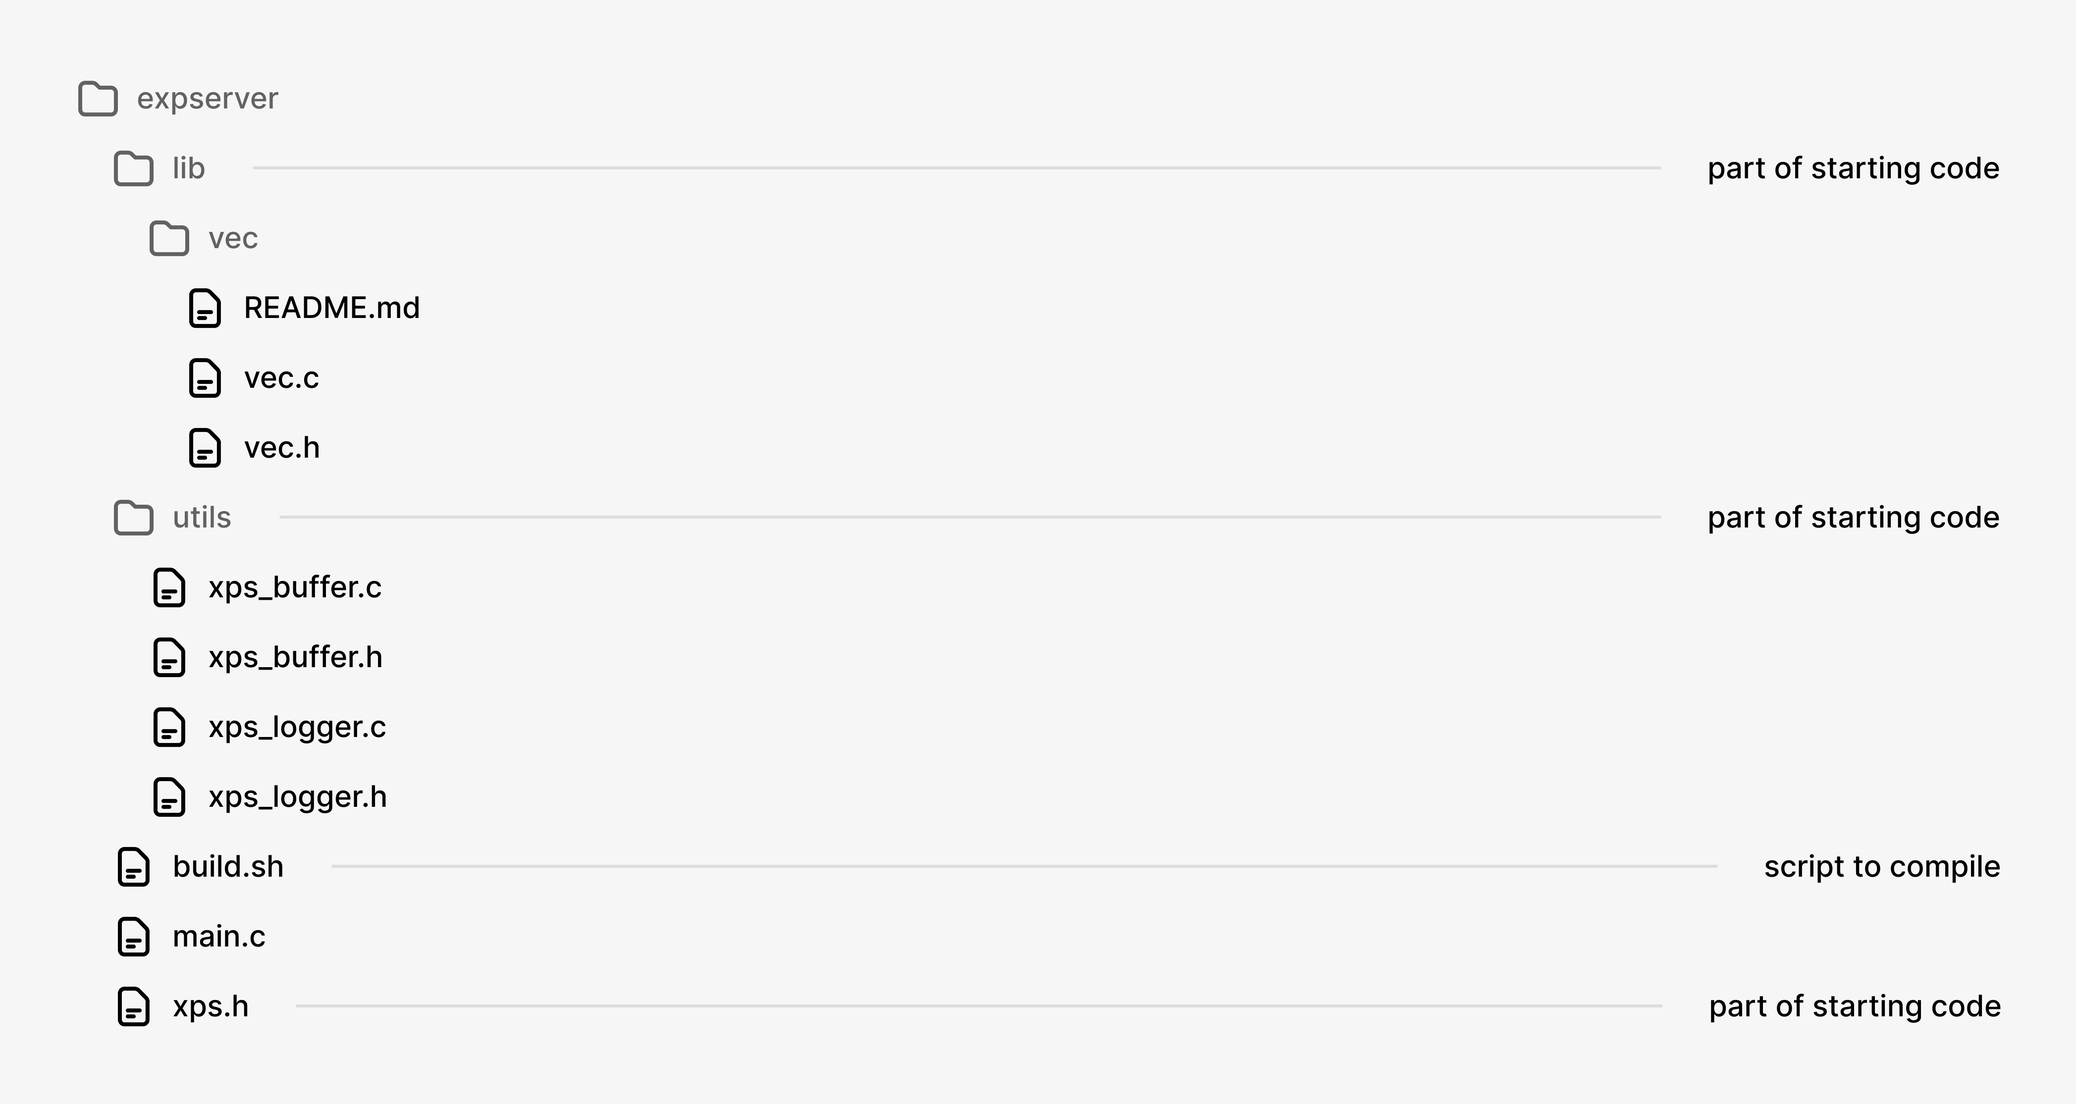
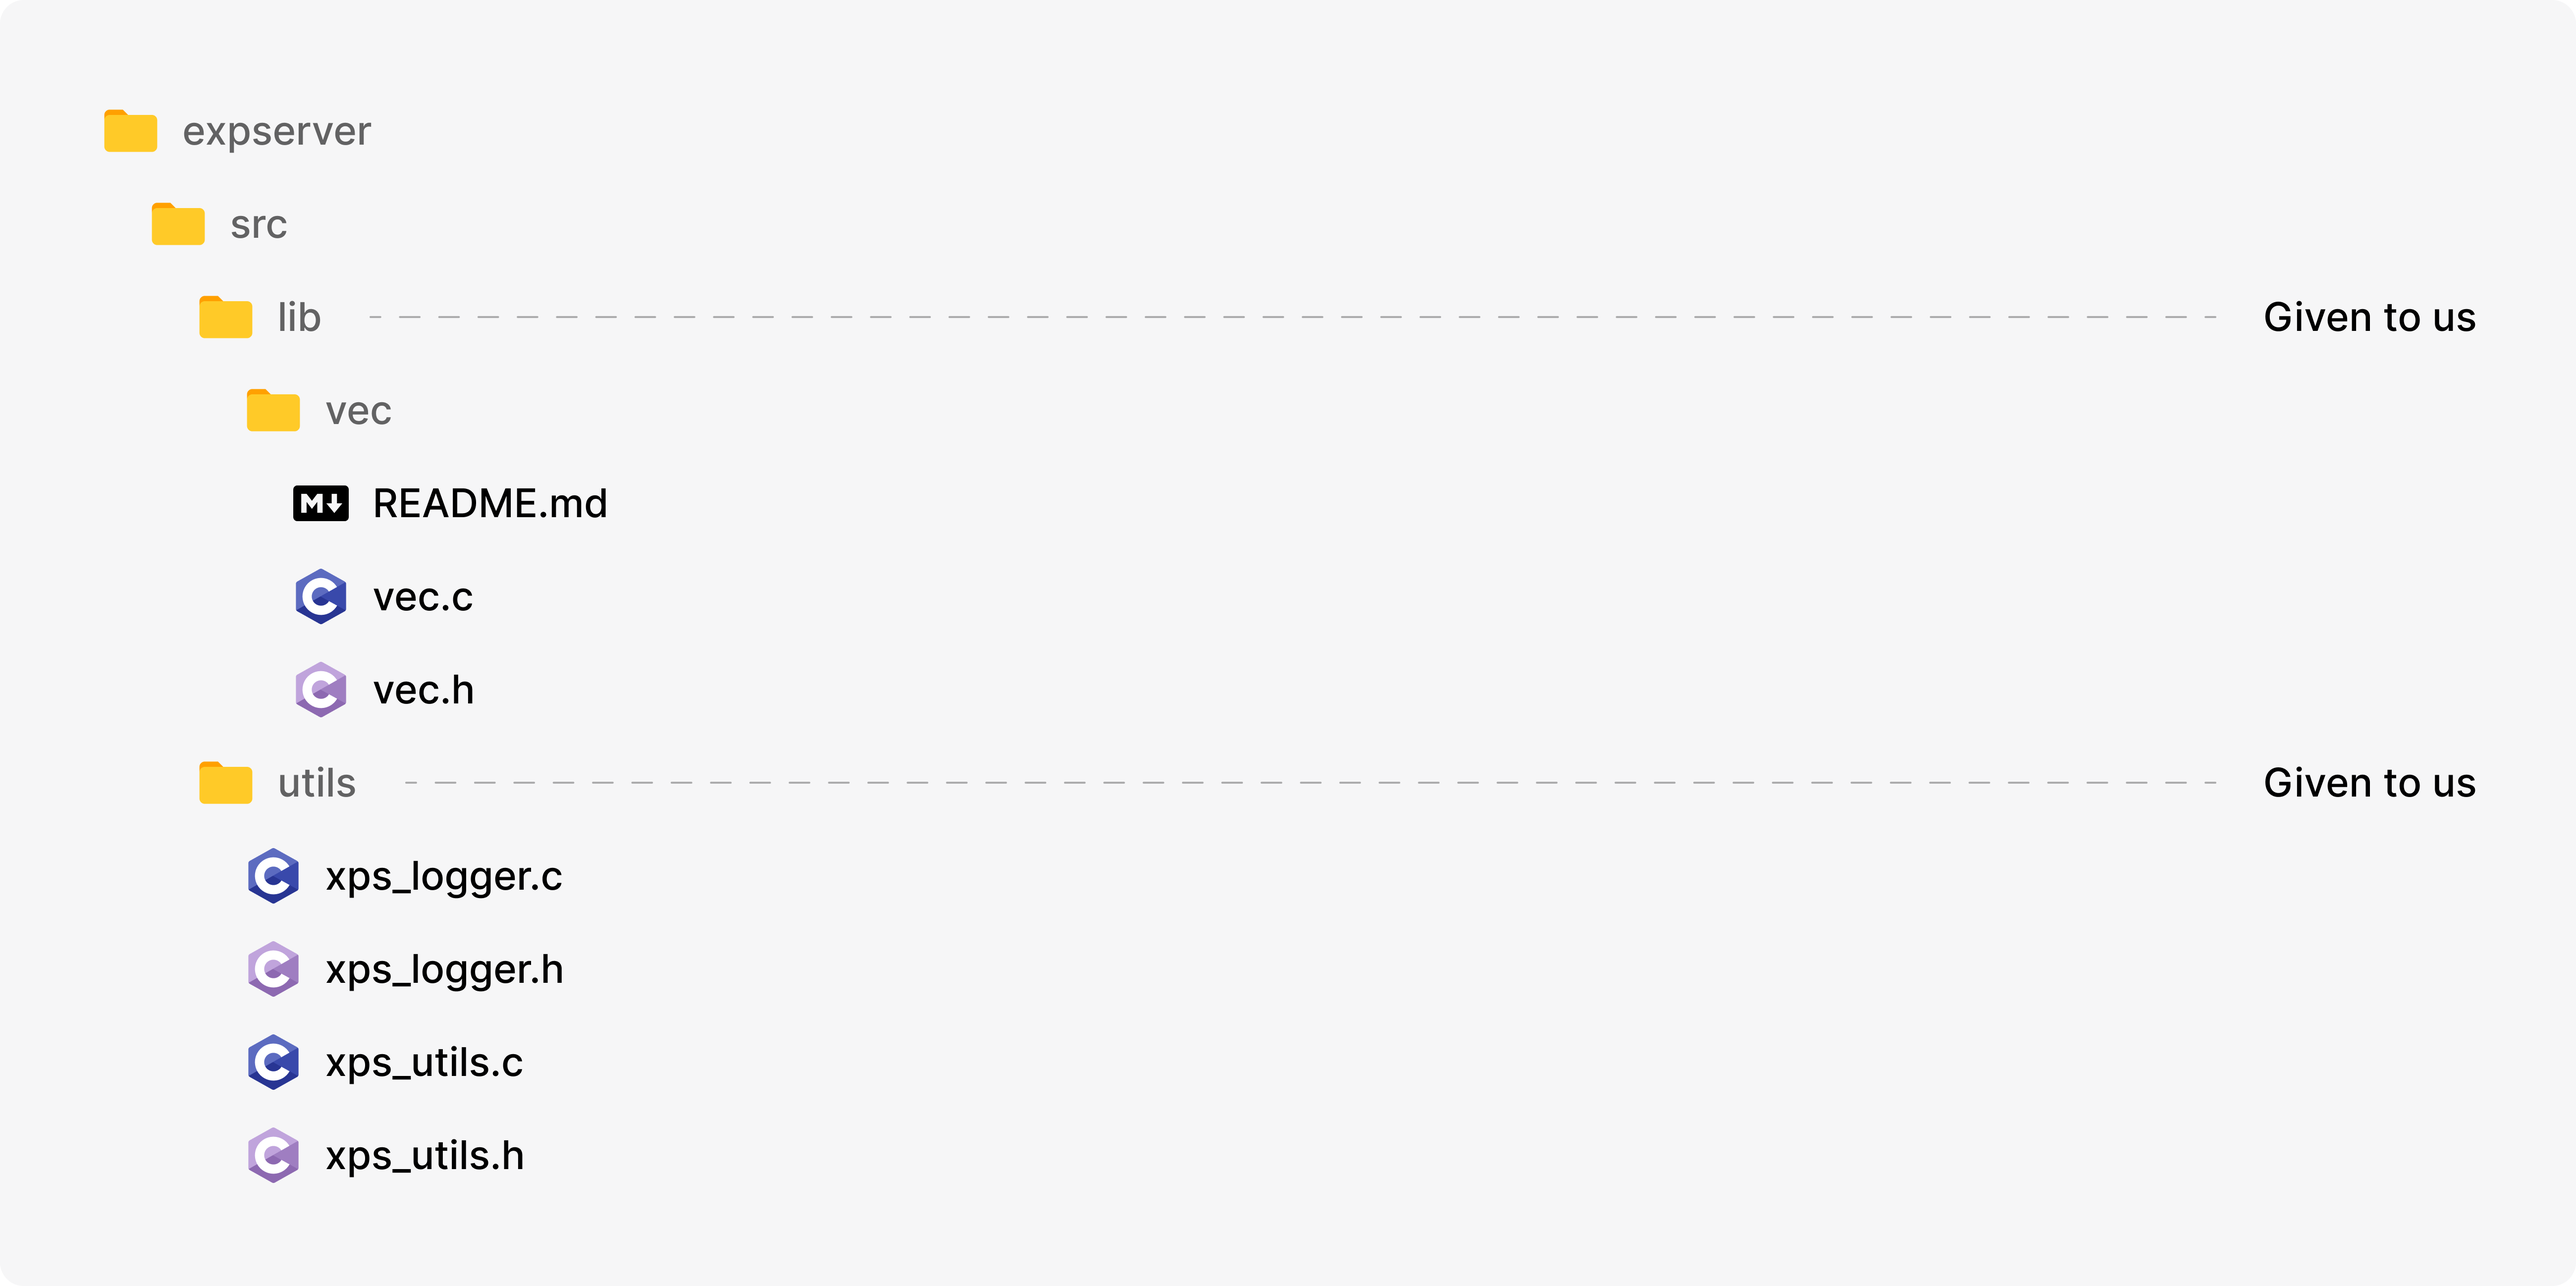
add coding conventions

diff --git a/docs/guides/resources/coding-conventions.md b/docs/guides/resources/coding-conventions.md
@@ -1,0 +1,123 @@
+# Coding Conventions
+
+In order to maintain consistency while developing eXpServer, we will be following a set of [coding conventions](https://en.wikipedia.org/wiki/Coding_conventions). Even though it is possible to develop eXpServer without following these exact conventions, the roadmap has been laid out with the expectation that these conventions will be followed.
+
+## Modules
+
+eXpServer is developed in the form of modules. A module will comprise of a `.h` and `.c` file, eg: `xps_listener.h` and `xps_listener.c`. The header files will contain struct definitions, [function prototypes](https://en.wikipedia.org/wiki/Function_prototype) and other declarations. The C files will contain definitions for the functions.
+
+### **Create and Destroy Functions**
+
+A typical pattern that we will be seeing in modules is the _create_ and _destroy_ functions. For example, the `xps_listener` module has `xps_listener_t *xps_listener_create(...)` and `void xps_listener_destory(xps_listener_t *listener)` functions. These functions are responsible for the following:
+
+- The _create_ functions will allocate memory and initialize the struct for the respective modules, `xps_listener_t` in this example. On success it will return a pointer to the instance and on error it will return `NULL` . Hence the calling function can detect an error by checking if the returned value is `NULL` or not.
+- The _destroy_ functions will accept a pointer to an instance of the module struct, `xps_listener_t` in this case, to release memory and properly de-initialize any associated values. Since the destroy functions are always expected to succeed, it will not return any errors.
+
+### **Other Module Functions**
+
+Apart from the create and destroy functions, there could be other functions associated with the module, that can be called from anywhere in the code. Thus they are also declared in the modules’ header file, and its definition in the C file. The function names are prefixed with `xps_`.
+
+### Helper Functions
+
+Additionally, helper functions can be defined and used within the modules. They will be declared at the top of the C file and not in the header file. The function name should be prefixed with the module name without `xps_`, for eg: `listener_connection_handler()`. The function name starts with the module name `xps_istener` without `xps_` as it will be used within the `xps_listener.c` file only.
+
+## Memory Management
+
+As a web server is a software that is expected to run for long intervals of time without shutting down, [memory leaks](https://en.wikipedia.org/wiki/Memory_leak) in the code can lead to huge consumption of system resources which can lead to the OS killing the process. Hence, if memory is allocated, it should be de-allocated after its use.
+
+### Modules
+
+When writing a _create_ function for a module which allocates memory, an accompanying _destroy_ function should be written which will free the memory.
+
+### Strings
+
+- In case of functions that accept strings (character arrays) as parameters, if the function does not modify the string it should be passed as `const char *`.
+  - eg: `int count_a(const char *str)`. Here the function returns the no. of letter ‘a’ in the string `str`. Since it won’t modify the string `str` it is passed as `const char *`.
+- If a function returns a string that should not be modified, then its should be returned as a `const char *`.
+  - eg: `const char *find_a(const char *str)`. Here the function finds the first occurrence of letter ‘a’ in the string `str`. Since it is a pointer to a byte in the string that should not be modified, it is returned as a `const char *`.
+- If a function returns `char *`, that signifies the function has internally allocated memory using `malloc()`. It is the responsibility of the calling function to free that memory.
+  - eg: `char * str_dup(const char *str)`. Here the function takes in a string and duplicates it. Internally `str_dup()` will allocate memory and copy over the contents from `str` and return a `char *` pointer to the newly allocated string.
+
+> ::: info NOTE
+> Memory leaks are hard to detect. Small leaks will only make an observable impact when the program is run for a long time. Hence the use of third party tools like [Valgrind](https://valgrind.org/) will be helpful in debugging memory issues in our code.
+> :::
+
+## Error Handling
+
+Unlike more modern languages, error handling is not a built in feature of the C programming language. Hence, there are a set of conventions followed in-order to indicate a function call has resulted in an error. Let us see what they are.
+
+### System Calls
+
+System calls such as `socket()` , `listen()` etc. which are part of [libc](https://en.wikipedia.org/wiki/C_standard_library) usually return `-1` on error and sets the [errno](https://en.wikipedia.org/wiki/Errno.h). We can use the `perror()` function to print the message associated with the last set _errno_. To see the exact return values of function look up their [man pages](https://man7.org/).
+
+### Pointer Return
+
+In eXpServer, if a function has a pointer return type it should return a valid pointer on success and `NULL` on error. eg: `xps_listener_t *xps_listener_create()`.
+
+### Error Code Return
+
+If a function is intended to perform a task that could fail, it should return an integer type with a valid error code. Valid error codes like `OK`, `E_FAIL`, `E_NOTFOUND`, `E_AGAIN`, etc., are defined in the `xps.h` file, seen in the first stage of Phase 1. For example, in the function signature `int xps_loop_attach(...)`, if the call is successful, it will return `OK`; otherwise, it will return `E_FAIL`.
+
+### Pointer Return with Error Code
+
+When a function needs to return a pointer to an instance and report an error code, it's not possible in C to return more than one value directly. In such cases, the return type of the function will be a pointer, and a reference to an integer, `int *error`, is passed to the function by the calling function. On error, NULL is returned, and the error integer is set to a valid error code.
+
+For example: `xps_file_t xps_file_create(..., int *error)`. On successful creation of the file instance, a valid pointer will be returned, and `*error` will be set to `OK`. In case of an error, `NULL` is returned, and `*error` is set to a valid error code such as `E_NOTFOUND`.
+
+### Validating Function Params
+
+When writing functions, start by validating the params first. You can use the [`assert()` macro](https://www.gnu.org/software/gawk/manual/html_node/Assert-Function.html) for this. Assert will stop the code execution and print the error if the expression is false. For example
+
+```c
+// Check if str has n 'a' in it
+int has_n_a(const char *str, int n) {
+	assert(str != NULL);
+	assert(n >= 0);
+
+	...
+}
+```
+
+### Early Return Pattern
+
+The early return pattern for errors is a programming practice where a function exits prematurely upon encountering an error condition, rather than continuing execution. This approach enhances code readability and performance by reducing nested conditionals and maintaining a clear flow of logic. When an error is detected, the function immediately returns by freeing up any allocated memory, closing any opened FDs, destroying and created instances etc. up till that point. For example
+
+```c
+// NOTE: This is an example and not the actual function definition
+xps_listener_t *xps_listner_create(...) {
+	// Validate params
+
+	int sock_fd = socket(...);
+	if(sock_fd == -1)
+		return NULL;
+
+	xps_listener_t *listener = malloc(...);
+	if(listener == NULL) {
+		close(sock_fd);
+		return NULL;
+	}
+
+	int error == bind(...);
+	if(error == -1) {
+		close(sock_fd);
+		free(listener);
+		return NULL;
+	}
+
+	...
+
+	return listener; // Success
+}
+```
+
+## Logging
+
+To help with debugging and understanding the order of function invocations, we will be logging messages throughout the code using the provided `xps_logger` utility. There are primarily 4 levels of logging, `LOG_INFO`, `LOG_WARNING`,`LOG_ERROR` and `LOG_DEBUG` .
+
+![Screenshot 2024-04-27 at 15.36.17.png](/assets/resources/logs.png)
+
+Read more about and get the source code for `xps_logger` [here](https://www.notion.so/xps_logger-9c8f4eb874ff4b0db31d2783197a7708?pvs=21).
+
+## Naming Convention
+
+[Snake case](https://en.wikipedia.org/wiki/Snake_case) convention is used to name all identifiers, i.e. small letters with underscores in place of spaces. For example `my_server`, `xps_buffer.c` etc. File names, function names and type names that are used across multiple files are prefixed with `xps_` , eg: `xps_buffer_create()` .

diff --git a/docs/roadmap/phase-1/index.md b/docs/roadmap/phase-1/index.md
@@ -14,8 +14,12 @@ Congratulations on completion of Phase 0! Let’s take a look at what we have do
 
 Phase 0 gave us an introduction to Linux socket programming and an understanding of how client-server communications take place. Using this knowledge, from Phase 1 onwards we will start to build the actual eXpServer.
 
-::: tip Pre-Requisite Reading
+::: tip PRE-REQUISITE READING
 Now is a good time to understand the capabilities and architecture of eXpServer. Read the following [Architecture](/guides/resources/architecture) document before proceeding further.
+:::
+
+::: tip PRE-REQUISITE READING
+Read the following document about the [Coding Conventions](/guides/resources/coding-conventions) we will be using to implement eXpServer
 :::
 
 There will be an apparent jump in the complexity of the code that we will be writing which is normal and expected. We will have to spend a bit more time than Phase 0 for this. Rest assured, this documentation will guide us throughout the process.
@@ -28,30 +32,8 @@ In order to maintain consistency, the documentation will be providing the expect
 
 ### Phase 1 Initial File Structure
 
-![filestructure.png](/assets/phase-1-overview/filestructure.png)
+![phase-1-overview-filestructure.png](/assets/phase-1-overview/filestructure.png)
 
-- We will be using a library called `vec` that provides dynamic array implementation. Read about and get the source code for `vec` [here](/guides/references/vec).
-- `xps_buffer` is a module used to create instances of data buffers. Read about and get the source code for `xps_buffer` [here](/guides/references/xps_buffer).
-- `xps_logger` is a module that provides a function to print log messages for debugging another purposes. Read about and get the source code for `xps_logger` [here](/guides/references/xps_logger).
-
-## Memory Management, Error Handling & Logging
-
-In Phase 0, we prioritised readability and simplicity over proper error handling and memory management.
-
-As a web server is a software that is expected to run for long intervals of time without shutting down, memory leaks in the code can lead to huge consumption of system resources, which is inefficient and can lead to the OS killing the process.
-
-As a web server deals with a lot of asynchronous system calls and network communications, it can lead to a variety of errors and unexpected failures. If these errors are not properly handled, it can lead to the process exiting itself.
-
-Thus, from this phase onwards,
-
-- High importance is given to proper memory management. If memory is allocated, it has to be freed after its use.
-- Errors from any function calls should be handled properly
-- To help with debugging and understanding the order of function invocations, we will be thoroughly logging messages throughout the code using the provided `xps_logger` utility. Read about and get the source code for `xps_logger` [here](/guides/references/xps_logger).
-
-::: tip
-Third-party tools such as [Valgrind](https://en.wikipedia.org/wiki/Valgrind) can help to find any memory leaks in the application we write.
-:::
-
-## Naming convention
-
-[Snake case](https://en.wikipedia.org/wiki/Snake_case) convention is used to name all identifiers, ie. small letters with underscores in place of spaces. eg: `my_server` , `xps_buffer.c` etc. File names, function names and type names are prefixed with `xps_`
+- We will be using a library called `vec` that provides a dynamic array implementation. Read about and get the source code for `vec` [here](/guides/references/vec).
+- `xps_logger` module provides a function to print log messages for debugging and other purposes. Read about and get the source code for `xps_logger` [here](/guides/references/xps_logger).
+- From this point onward, the code will be independent of what was done in the previous stage. Begin by creating a folder named `src` within `expserver`.
